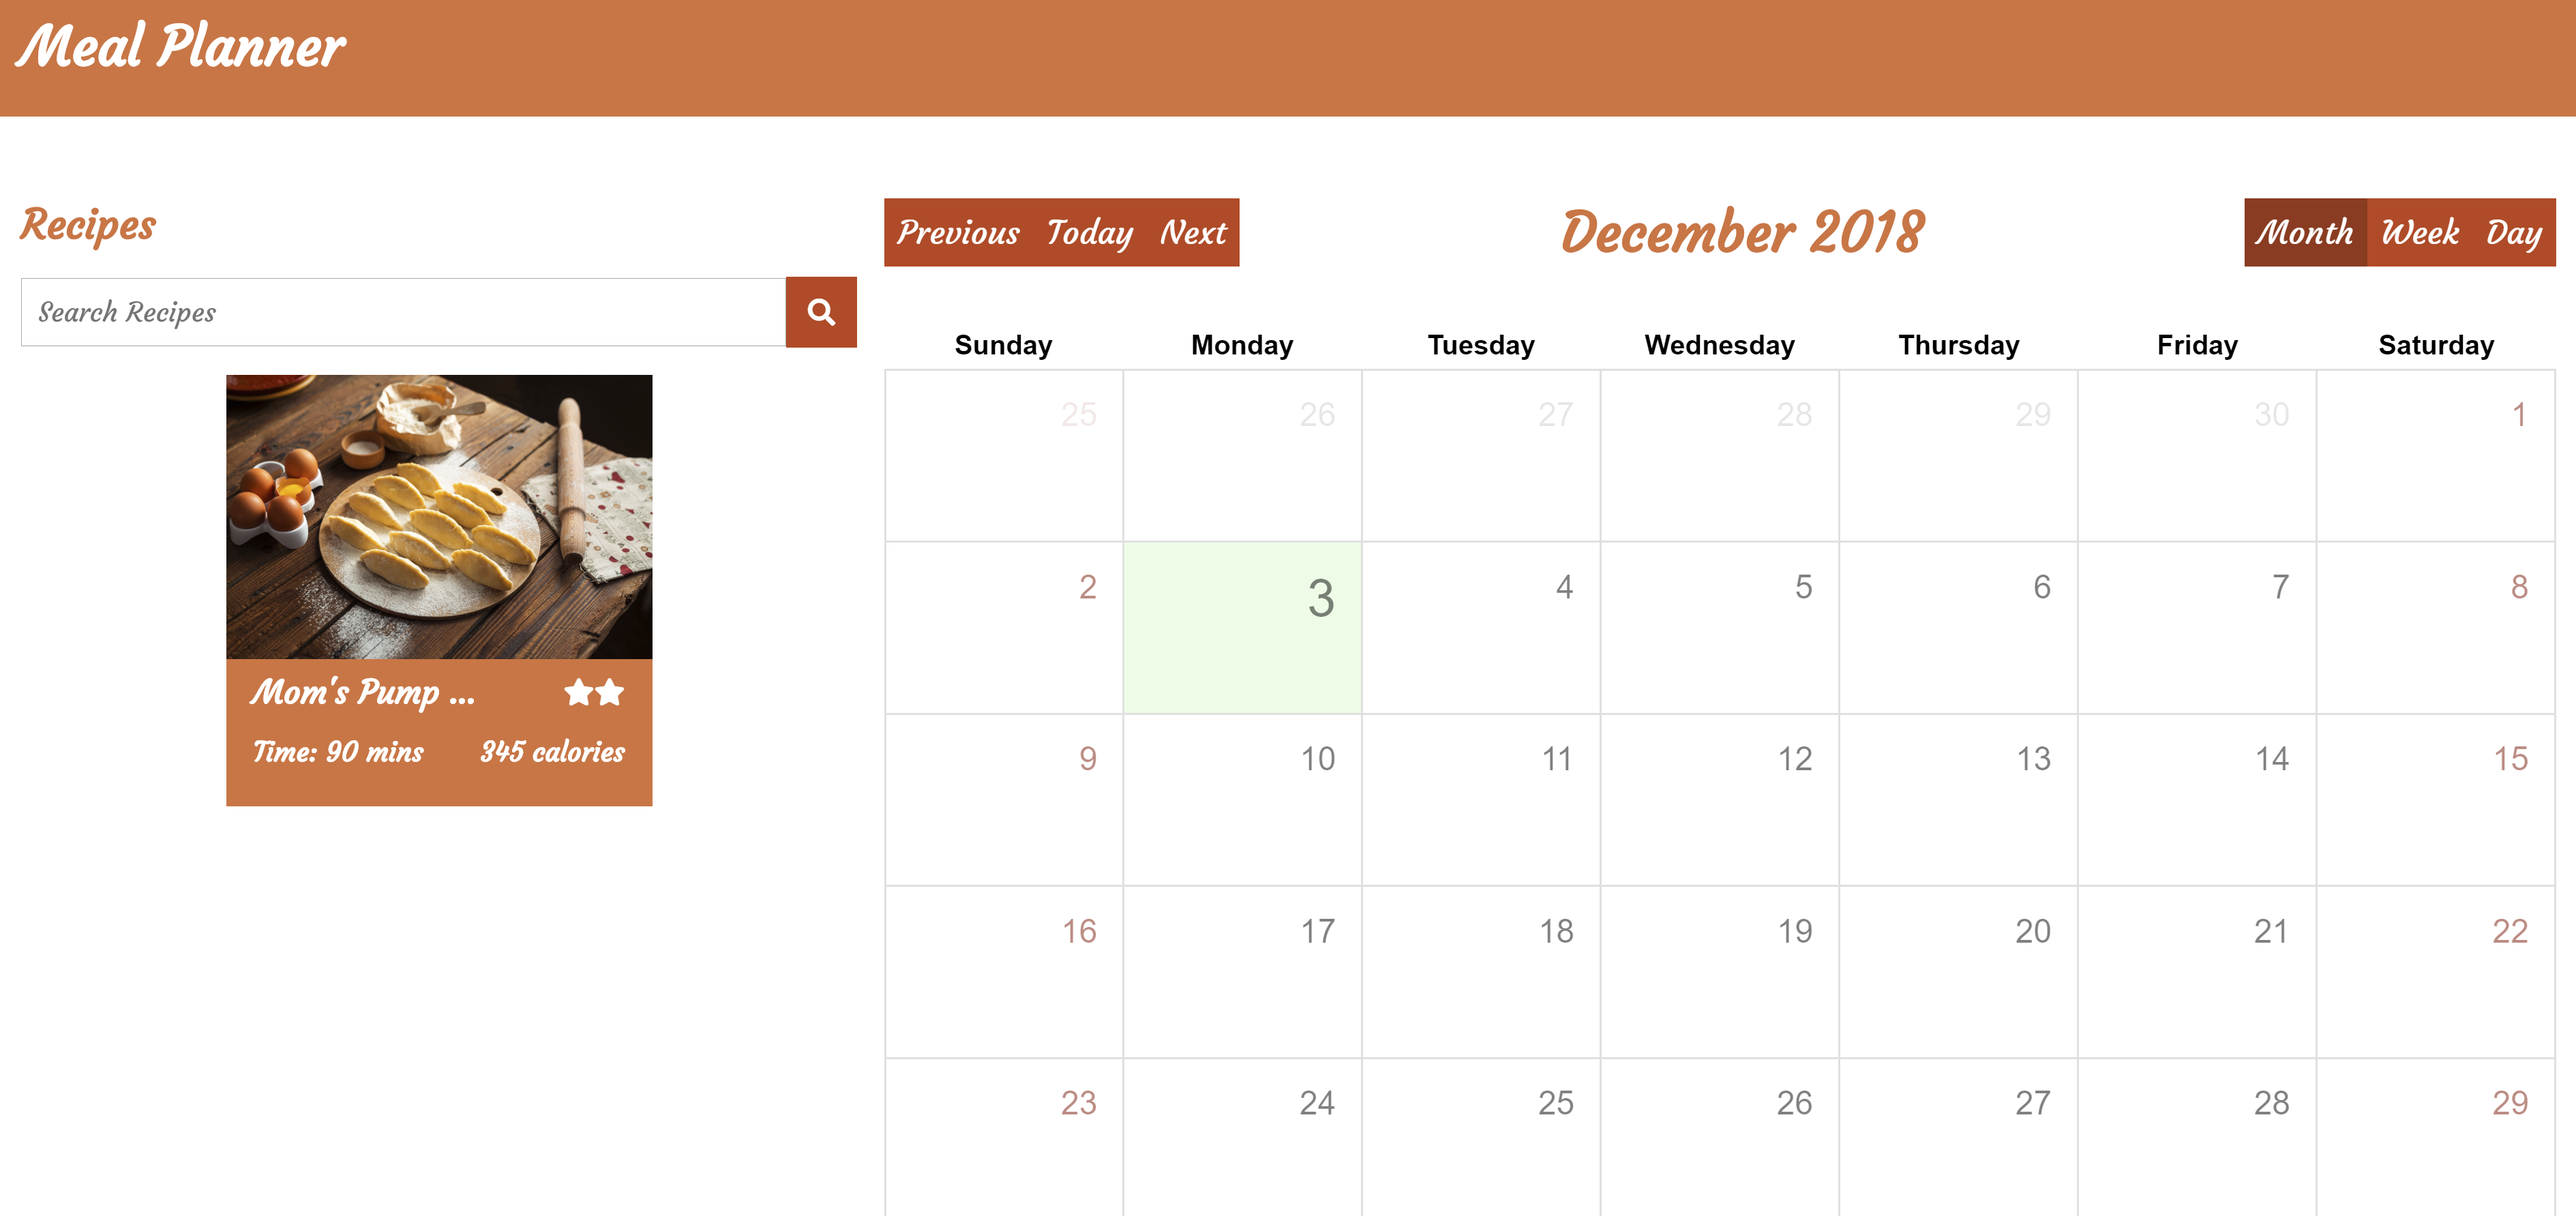
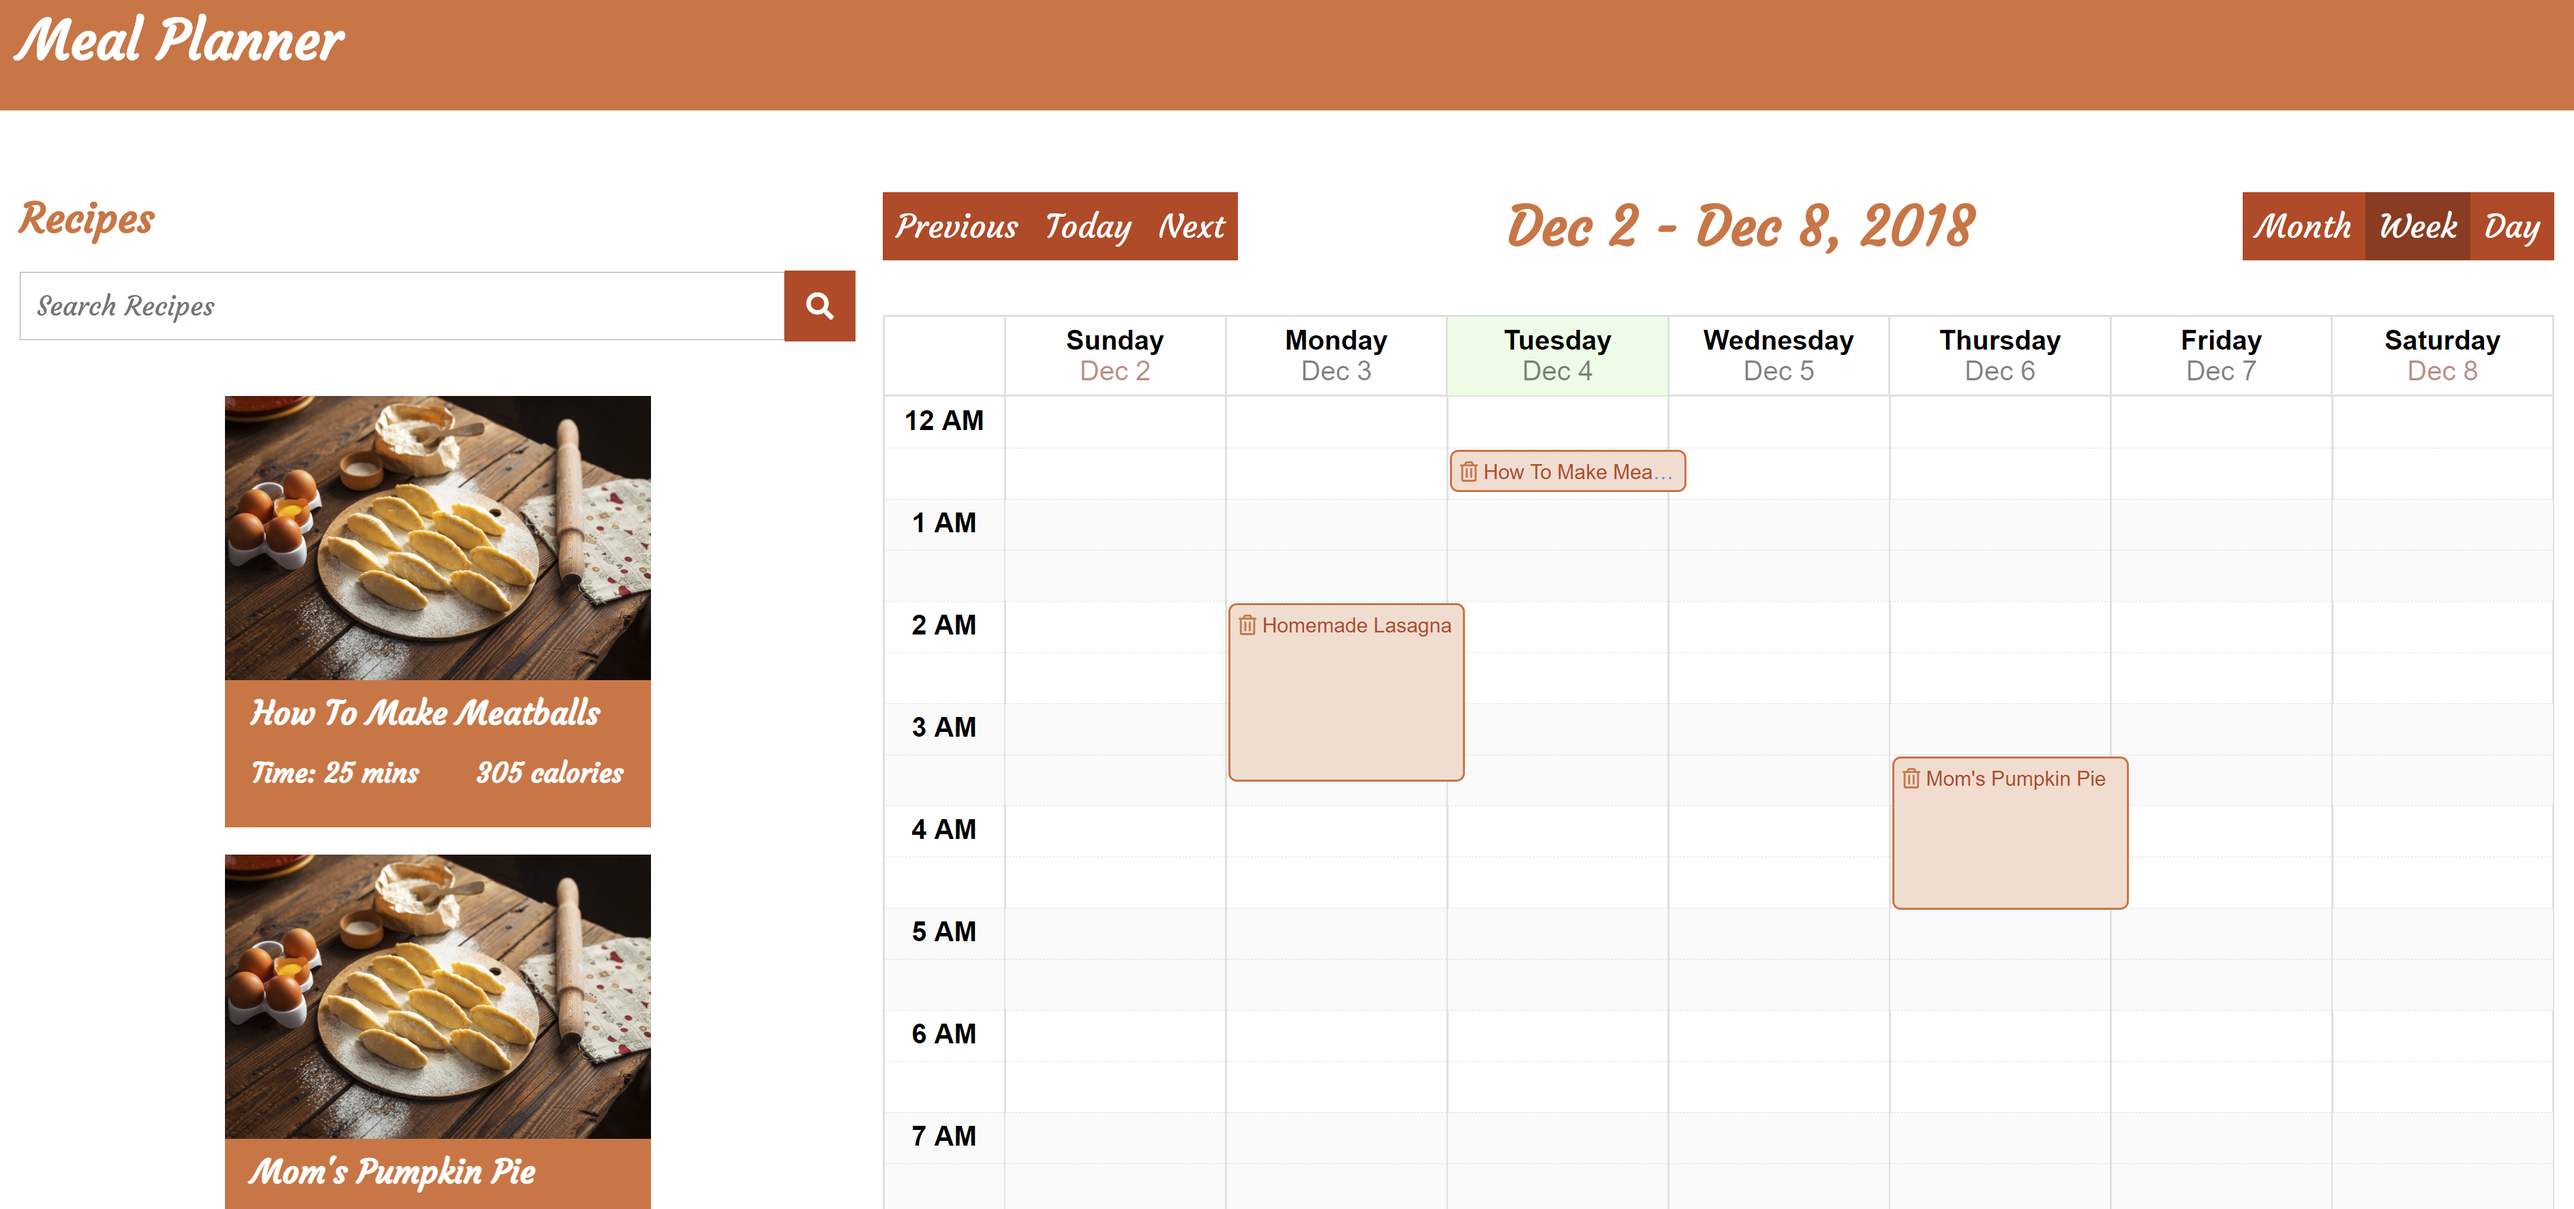
Completed initial meal calendar

diff --git a/src/app/modules/calendar/calendar.component.html b/src/app/modules/calendar/calendar.component.html
@@ -8,11 +8,44 @@
   </app-calendar-header>
 
   <ng-template #loading>
-    <div class="text-center">
-      <i class="fa fa-spin fa-spinner fa-5x"></i>
-      <br>
-      Loading events...
+    <div class="calendar_loading">
+      <span class="calendar_icon fa-stack fa-2x fa-spin">
+        <i class="far fa-circle fa-stack-2x"></i>
+        <i class="fas fa-stack-1x fa-utensils"></i>
+      </span>
     </div>
+  </ng-template>
+
+  <ng-template #customCellTemplate let-day="day" let-locale="locale">
+    <div class="cal-cell-top">
+      <span class="cal-day-badge" *ngIf="day.badgeTotal > 0">{{ day.badgeTotal }}</span>
+      <span class="cal-day-number">{{ day.date | calendarDate:'monthViewDayNumber':locale }}</span>
+    </div>
+  </ng-template>
+
+  <ng-template
+    #eventTitleTemplate
+    let-event="event"
+    let-view="view"
+    let-locale="locale">
+    <span
+      class="calendar_event cal-event-title"
+      [innerHTML]="event.title | calendarEventTitle:view:event">
+    </span>
+  </ng-template>
+
+  <ng-template
+    #actionsTemplate
+    let-event="event">
+    <span *ngIf="event.actions" class="cal-event-actions">
+      <a
+        class="calendar_event-action cal-event-action"
+        *ngFor="let action of event.actions"
+        (mwlClick)="action.onClick({event: event})"
+        [ngClass]="action.cssClass"
+        [innerHtml]="action.label">
+      </a>
+    </span>
   </ng-template>
 
   <div *ngIf="events$ | async; else loading; let events">
@@ -21,25 +54,35 @@
         *ngSwitchCase="CalendarView.Month"
         [viewDate]="viewDate"
         [events]="events"
+        [eventActionsTemplate]="actionsTemplate"
+        [cellTemplate]="customCellTemplate"
         [activeDayIsOpen]="activeDayIsOpen"
         [refresh]="refresh"
-        (eventTimesChanged)="eventDropped($event)">
+        (dayClicked)="activeDayIsOpen = !activeDayIsOpen"
+        (eventTimesChanged)="eventDropped($event)"
+        (eventClicked)="eventClicked($event)">
       </mwl-calendar-month-view>
       <mwl-calendar-week-view
         *ngSwitchCase="CalendarView.Week"
         [viewDate]="viewDate"
+        [eventActionsTemplate]="actionsTemplate"
         [events]="events"
+        [eventTitleTemplate]="eventTitleTemplate"
         [refresh]="refresh"
         [snapDraggedEvents]="false"
-        (eventTimesChanged)="eventDropped($event)">
+        (eventTimesChanged)="eventDropped($event)"
+        (eventClicked)="eventClicked($event)">
       </mwl-calendar-week-view>
       <mwl-calendar-day-view
         *ngSwitchCase="CalendarView.Day"
         [viewDate]="viewDate"
         [events]="events"
+        [eventActionsTemplate]="actionsTemplate"
+        [eventTitleTemplate]="eventTitleTemplate"
         [refresh]="refresh"
         [snapDraggedEvents]="false"
-        (eventTimesChanged)="eventDropped($event)">
+        (eventTimesChanged)="eventDropped($event)"
+        (eventClicked)="eventClicked($event)">
       </mwl-calendar-day-view>
     </div>
   </div>

diff --git a/src/app/modules/calendar/calendar.component.ts b/src/app/modules/calendar/calendar.component.ts
@@ -7,6 +7,7 @@ import {
 import { Observable, Subject, Subscription } from 'rxjs';
 import { EventsService } from '../../../app/core/firestore';
 import { User, Recipe } from '../../../app/core/models';
+import { Router } from '@angular/router';
 
 @Component({
   selector: 'app-calendar',
@@ -26,7 +27,10 @@ export class CalendarComponent implements OnInit, OnDestroy {
 
   private subscriptions: Subscription[] = [];
   
-  constructor(private eventsService: EventsService) {}
+  constructor(
+    private router: Router,
+    private eventsService: EventsService
+  ) {}
 
   ngOnInit() {
     this.fetchEvents();
@@ -40,6 +44,10 @@ export class CalendarComponent implements OnInit, OnDestroy {
     this.events$ = this.eventsService.getEvents();
   }
 
+  eventClicked({ event }: { event: CalendarEvent }): void {
+    this.router.navigate(['/recipes/', event.meta.recipe.id]);
+  }
+
   eventDropped({
     event,
     newStart,
@@ -50,13 +58,11 @@ export class CalendarComponent implements OnInit, OnDestroy {
       event.allDay = allDay;
     }
     event.start = newStart;
-    console.log('START', newStart)
     let end = new Date(newStart);
     end.setMinutes(end.getMinutes() + event.meta.recipe.totalTime);
     if (!event.meta.recipe.totalTime) {
       end.setMinutes(end.getMinutes() + event.meta.recipe.cookTime)
     }
-    console.log('END', end);
     if (newEnd) {
       event.end = newEnd;
     } else {

diff --git a/src/app/modules/recipes-item/recipes-item.component.ts b/src/app/modules/recipes-item/recipes-item.component.ts
@@ -1,15 +1,17 @@
-import { Component, OnInit, Input } from '@angular/core';
+import { Component, OnInit, Input, OnDestroy } from '@angular/core';
 import { ImagesService } from '../../../app/core/firestore';
 import { Image, Recipe } from '../../../app/core/models';
+import { Subscription } from 'rxjs';
 
 @Component({
   selector: 'app-recipes-item',
   templateUrl: './recipes-item.component.html',
   styleUrls: ['./recipes-item.component.scss']
 })
-export class RecipesItemComponent implements OnInit {
+export class RecipesItemComponent implements OnInit, OnDestroy {
   @Input() recipe: Recipe;
-  @Input() image: string;
+  @Input() planner: boolean;
+
   thumbnail: Image = {
     file: 'background1.png',
     id: '',
@@ -20,12 +22,18 @@ export class RecipesItemComponent implements OnInit {
     userId: '',
   };
 
+  private subscriptions: Subscription[] = [];
+
   constructor(private imagesService: ImagesService) { }
 
   ngOnInit() {
     if (this.recipe.images && this.recipe.images.length > 0) {
-      this.imagesService.getImageFromPath(this.recipe.images[0])
-        .subscribe(imgs => imgs.forEach(img => this.thumbnail = img));
+      this.subscriptions.push(this.imagesService.getImageFromPath(this.recipe.images[0])
+        .subscribe(imgs => imgs.forEach(img => this.thumbnail = img)));
     }
+  }
+
+  ngOnDestroy() {
+    this.subscriptions.forEach(sub => sub.unsubscribe());
   }
 }

diff --git a/src/app/core/firestore/events.service.ts b/src/app/core/firestore/events.service.ts
@@ -1,6 +1,6 @@
 import { Injectable } from '@angular/core';
 import { AngularFirestore, AngularFirestoreCollection } from '@angular/fire/firestore';
-import { CalendarEvent } from 'angular-calendar';
+import { CalendarEvent, CalendarEventAction } from 'angular-calendar';
 import * as firebase from 'firebase/app';
 import { Observable } from 'rxjs';
 import { map } from 'rxjs/operators';
@@ -29,6 +29,15 @@ export class EventsService {
         if (data.end) {
           data.end = new Date(data.end);
         }
+        const actions: CalendarEventAction[] = [
+          {
+            label: '<i class="far fa-trash-alt"></i>',
+            onClick: ({ event }: { event: CalendarEvent }): void => {
+              this.deleteEvent(event.id as string);
+            }
+          }
+        ];
+        data.actions = actions;
         // Get document id
         const id = a.payload.doc.id;
         // Use spread operator to add the id to the document data
@@ -42,6 +51,7 @@ export class EventsService {
     const newEvent = {
       ...event,
       start: event.start.toLocaleString(),
+      end: event.end && event.end.toLocaleString(),
     }
     this.eventsCollection.add(newEvent);
   }

diff --git a/src/app/modules/recipes-item/recipes-item.component.html b/src/app/modules/recipes-item/recipes-item.component.html
@@ -1,10 +1,11 @@
 <div class="recipesItem" [routerLink]="['/recipes', recipe.id]">
-  <img [ngClass]="image ? image : 'recipesItem_image'" [src]="thumbnail.src" [alt]="thumbnail.name">
+  <img class="recipesItem_image" [src]="thumbnail.src" [alt]="thumbnail.name">
   <div class="recipesItem_container">
     <div class="recipesItem_text">
       <div class="recipesItem_row">
-        <h3 class="recipesItem_text-title">{{ recipe.title | trimText: 10 }}</h3>
-        <div class="recipesItem_stars">
+        <h3 class="recipesItem_text-title" *ngIf="!planner">{{ recipe.title | trimText: 10 }}</h3>
+        <h3 class="recipesItem_text-title" *ngIf="planner">{{ recipe.title | trimText: 25 }}</h3>
+        <div class="recipesItem_stars" *ngIf="!planner">
           <i class="fas fa-star recipesItem_star" *ngIf="recipe.myRating >= 1"></i>
           <i class="fas fa-star recipeItem_star" *ngIf="recipe.myRating >= 2"></i>
           <i class="fas fa-star recipeItem_star" *ngIf="recipe.myRating >= 3"></i>

diff --git a/src/app/modules/meals-list/meals-list.component.ts b/src/app/modules/meals-list/meals-list.component.ts
@@ -1,8 +1,8 @@
 import { Component, OnInit, OnDestroy } from '@angular/core';
 import { Router, ActivatedRoute } from '@angular/router';
-import { CalendarEvent } from 'angular-calendar';
+import { CalendarEvent, CalendarEventAction } from 'angular-calendar';
 import { Observable, Subscription } from 'rxjs';
-import { RecipesService } from '../../../app/core/firestore';
+import { RecipesService, EventsService } from '../../../app/core/firestore';
 import { Recipe } from '../../../app/core/models';
 
 @Component({
@@ -18,11 +18,16 @@ export class MealsListComponent implements OnInit, OnDestroy {
   private subscriptions: Subscription[] = [];
 
   constructor(
+    private eventsService: EventsService,
     private recipesService: RecipesService,
     private route: ActivatedRoute,
     private router: Router,
   ) {
     this.event = {
+      color: {
+        primary: '#E27241',
+        secondary: '#F9DDD1'
+      },
       start: new Date(),
       title: 'New Event',
       draggable: true,

diff --git a/src/app/modules/calendar/calendar.component.scss b/src/app/modules/calendar/calendar.component.scss
@@ -1,9 +1,44 @@
 @import '../../../styles';
 
 .calendar {
-  // display: flex;
-  // flex-direction: column;
-  @media only screen and (max-width: 760px) {
-    overflow-x: scroll;
+  display: flex;
+  flex-direction: column;
+
+  // @media only screen and (max-width: 760px) {
+  //   overflow-x: hidden;
+  // }
+
+  &_loading {
+    align-self: center;
+    padding-top: 10rem;
+
+    @media only screen and (max-width: 760px) {
+      padding: 1rem 0;
+    }
+  }
+
+  &_icon {
+    color: $color-primary;
+    font-size: 3rem;
+
+    @media only screen and (max-width: 760px) {
+      font-size: 2rem;
+    }
+  }
+
+  &_event {
+    color: $color-button;
+
+    &-action {
+      color: $color-primary;
+  
+      &:hover {
+        color: $color-button;
+      }
+    }
+
+    &-month {
+      
+    }
   }
 }

diff --git a/src/app/modules/meals-list/meals-list.component.html b/src/app/modules/meals-list/meals-list.component.html
@@ -15,8 +15,7 @@
         (dragStart)="setEvent({event: event, recipe: recipe})"
       >
         <a>
-          <!-- <app-recipes-item [recipe]="recipe"></app-recipes-item> -->
-          {{ recipe.title }}
+          <app-recipes-item [recipe]="recipe" [planner]="true"></app-recipes-item>
         </a>
       </li>
     </ul>

diff --git a/src/app/modules/planner/planner.component.scss b/src/app/modules/planner/planner.component.scss
@@ -29,9 +29,9 @@
     padding: 1rem;
 
     @media only screen and (max-width: 760px) {
-      // align-items: center;
+      align-items: center;
       display: flex;
-      flex-direction: column;
+      flex-direction: column-reverse;
       // overflow-x: scroll;
     }
   }

diff --git a/src/app/modules/meals-list/meals-list.component.scss b/src/app/modules/meals-list/meals-list.component.scss
@@ -30,9 +30,10 @@
 .drag-active {
   pointer-events: none;
   position: relative;
+  opacity: 0.05;
   z-index: 1;
 }
 
 .drag-over {
-  background-color: #eee;
+  background-color: $very-light-gray;
 }

diff --git a/src/app/modules/recipes-item/recipes-item.component.scss b/src/app/modules/recipes-item/recipes-item.component.scss
@@ -51,9 +51,3 @@
     width: 250px;
   }
 }
-
-// .mealsList_image {
-//   height: auto;
-//   object-fit: cover;
-//   width: 100px;
-// }
